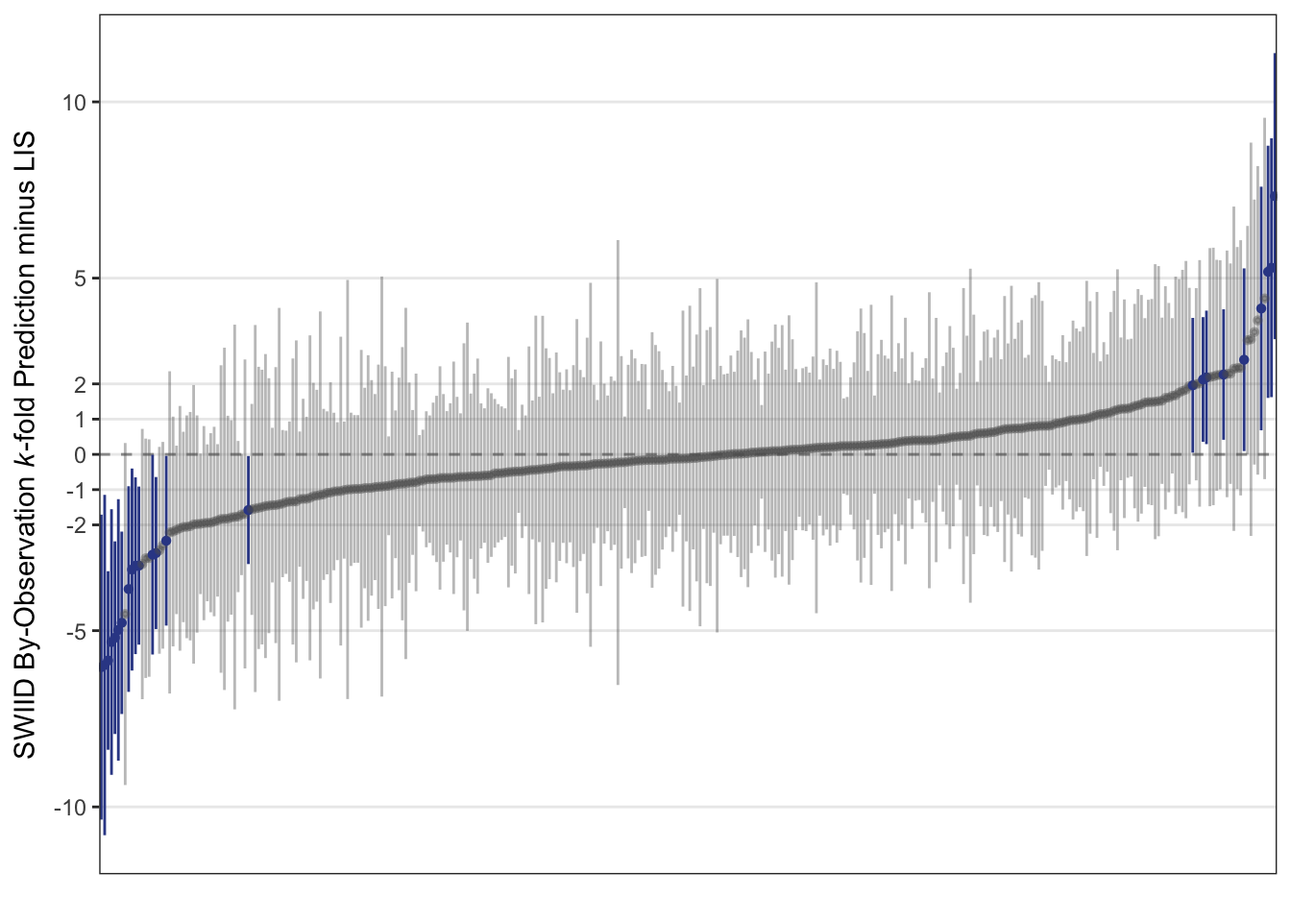
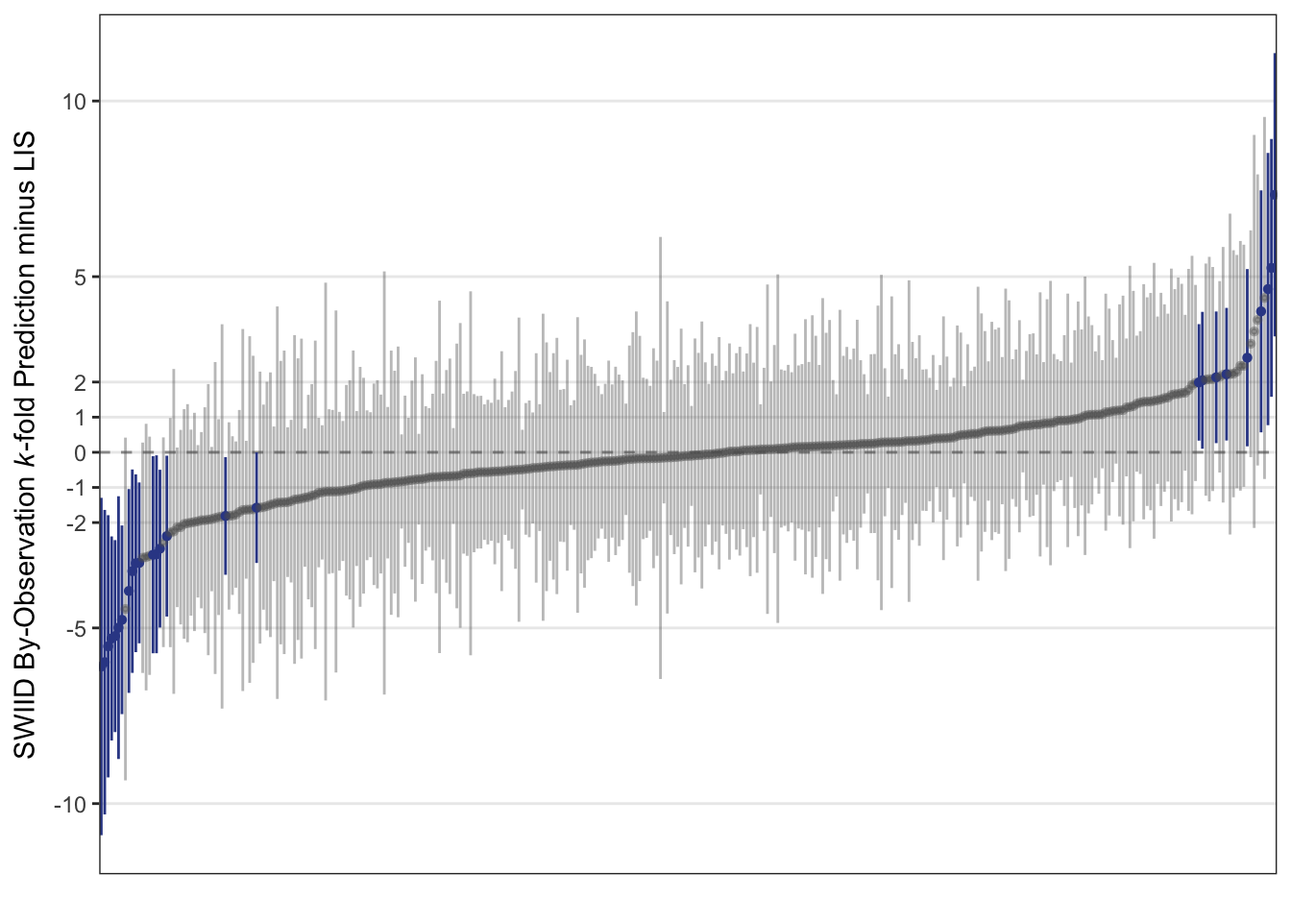
rebuilding site Wed Feb 27 14:13:19 CST 2019

diff --git a/blog/index.html b/blog/index.html
@@ -179,7 +179,7 @@
 <p>Still, that sense may be biased by the exact observations that happened to be assigned to each set. We can reduce this bias by performing the process repeatedly: this is <em>k</em>-fold cross-validation. The available data are divided into some number <em>k</em> groups. One at a time, each of the <em>k</em> groups is treated as the testing data, with all other groups forming the training data for estimating the model. The model’s performance is then evaluated by considering how well it predicts <em>all</em> of the groups, and because every observation is included in the testing data at some point, the process allows us to check whether and for which observations the model is doing particularly poorly.</p>
 <p>To provide a first assessment of the SWIID’s ability to predict the LIS, I randomly assigned the available LIS observations into groups of three, with an added check to ensure that no group included two observations from the same country.<a href="#fn3" class="footnote-ref" id="fnref3"><sup>3</sup></a> (Because the SWIID routine relies only on relationships observed within-country for the countries included in the LIS, the check that only a single observation from a country be assigned to the test data at a time means that the exact size of the group doesn’t really matter.)<a href="#fn4" class="footnote-ref" id="fnref4"><sup>4</sup></a> The figure below plots the difference between the SWIID prediction generated from this <em>k</em>-fold cross-validation and the LIS data for each country-year included in the LIS. Observations for which the 95% credible interval for this difference includes zero are gray; those for which it doesn’t are highlighted in blue.</p>
 <p><img src="/post/2019-01-16-cross-validation-for-swiid_files/figure-html/kfold_output-1.png" width="672" /></p>
-<p>The results show that the SWIID does a very good job of predicting the LIS: the 95% credible interval for the difference between the two includes zero for 93% of these observations. The point estimates for these differences are generally small, with 85% less than 2 Gini points and 62% less than a single Gini point. It’s true that there are a few observations for which the estimated difference is quite large–on the far left of the plot, the SWIID routine underestimated the LIS Gini for Hungary in 1991 by 6 <span class="math inline">\(\pm\)</span> 4 points, and on the extreme right the SWIID routine overestimated that for Guatemala in 2014 by 7 <span class="math inline">\(\pm\)</span> 4 points–but there doesn’t really seem to me to be much pattern in which countries and years are estimated poorly.</p>
+<p>The results show that the SWIID does a very good job of predicting the LIS: the 95% credible interval for the difference between the two includes zero for 92% of these observations. The point estimates for these differences are generally small, with 86% less than 2 Gini points and 62% less than a single Gini point. It’s true that there are a few observations for which the estimated difference is quite large–on the far left of the plot, the SWIID routine underestimated the LIS Gini for Hungary in 1991 by 6 <span class="math inline">\(\pm\)</span> 4 points, and on the extreme right the SWIID routine overestimated that for Guatemala in 2014 by 7 <span class="math inline">\(\pm\)</span> 4 points–but there doesn’t really seem to me to be much pattern in which countries and years are estimated poorly.</p>
 <p>This test, though, really only assesses how well the SWIID predicts LIS-comparable inequality figures in years without LIS data in the (now fifty) countries that are <em>included in the LIS</em>. We can get a better sense of how well the SWIID does predicting countries not covered by the LIS with another cross-validation that, one country at a time, excludes <em>all</em> of the LIS observations for that country. The results of just such a test are plotted below.</p>
 <p><img src="/post/2019-01-16-cross-validation-for-swiid_files/figure-html/kfold_output_by_country-1.png" width="672" /></p>
 <p>Overall, the plot looks very similar to the one above. With each country’s entire run of LIS data taking a turn being excluded, the 95% credible interval for the difference between the resulting SWIID estimate and the excluded LIS data contains zero 91% of the time. And here, too, most of the point estimates for these differences are small: 74% are less than 2 Gini points, and 52% are less than one Gini point.</p>
@@ -286,7 +286,7 @@ stata(&quot;sum a&quot;, data.in = x)                         </code></pre>
 ## 
 ##     Variable |       Obs        Mean    Std. Dev.       Min        Max
 ## -------------+--------------------------------------------------------
-##            a |         3   -.0644068     .582791   -.626612   .5369914</code></pre>
+##            a |         3   -.1817354     .714746   -.946279   .4697327</code></pre>
 <pre class="r"><code>## Data output from Stata (e.g., obtain &#39;auto&#39; dataset)
 auto &lt;- stata(&quot;sysuse auto&quot;, data.out = TRUE)</code></pre>
 <pre><code>## . sysuse auto
@@ -325,24 +325,24 @@ stata(&quot;
 ## 
 ##     Variable |       Obs        Mean    Std. Dev.       Min        Max
 ## -------------+--------------------------------------------------------
-##            y |       100    .0952097    .9861854  -1.629507   3.992455
-##           x1 |       100    .1356805    1.000274   -2.53011   3.091516
-##           x2 |       100    .0258736    .9594336  -1.932261   2.350271
+##            y |       100    .0675399    1.088293  -2.271662   2.677825
+##           x1 |       100   -.2480855     .930022  -2.907439   2.218563
+##           x2 |       100    .1207423    1.003783  -2.990401   2.532959
 ## .     reg y x1 x2
 ## 
 ##       Source |       SS       df       MS              Number of obs =     100
-## -------------+------------------------------           F(  2,    97) =    1.59
-##        Model |  3.06532347     2  1.53266173           Prob &gt; F      =  0.2082
-##     Residual |  93.2182885    97  .961013283           R-squared     =  0.0318
-## -------------+------------------------------           Adj R-squared =  0.0119
-##        Total |  96.2836119    99  .972561737           Root MSE      =  .98031
+## -------------+------------------------------           F(  2,    97) =    0.69
+##        Model |  1.63960931     2  .819804656           Prob &gt; F      =  0.5051
+##     Residual |  115.614122    97  1.19189816           R-squared     =  0.0140
+## -------------+------------------------------           Adj R-squared = -0.0063
+##        Total |  117.253731    99  1.18438112           Root MSE      =  1.0917
 ## 
 ## ------------------------------------------------------------------------------
 ##            y |      Coef.   Std. Err.      t    P&gt;|t|     [95% Conf. Interval]
 ## -------------+----------------------------------------------------------------
-##           x1 |   .0275612   .0985133     0.28   0.780    -.1679605    .2230829
-##           x2 |  -.1806352   .1027067    -1.76   0.082    -.3844796    .0232092
-##        _cons |   .0961439   .0989803     0.97   0.334    -.1003046    .2925924
+##           x1 |  -.1411895   .1205258    -1.17   0.244    -.3803998    .0980208
+##           x2 |   .0204243   .1116692     0.18   0.855    -.2012082    .2420568
+##        _cons |   .0300468   .1147156     0.26   0.794     -.197632    .2577256
 ## ------------------------------------------------------------------------------
 ## .</code></pre>
 </div>
@@ -479,7 +479,7 @@ stata(&quot;
 <p>I have been producing the Standardized World Income Inequality Database for nearly a decade. Since 2008, the SWIID has provided estimates of the Gini index of income inequality<a href="#fn1" class="footnote-ref" id="fnref1"><sup>1</sup></a> for as many countries and years as possible and—given the primary goal of maximizing spatial and temporal coverage—these estimates are as comparable as the available data allow. The dataset has been used widely by academics, journalists, and policymakers. It’s been successful way beyond all my hopes.<a href="#fn2" class="footnote-ref" id="fnref2"><sup>2</sup></a> I’ve been <a href="/swiid/swiid_downloads/">adding to it, revising it, improving on it</a> pretty much the entire time since its launch. Now, <a href="https://www.nsf.gov/awardsearch/showAward?AWD_ID=1533746">with the support of the NSF</a>, I am scrapping all of that work and starting fresh. From scratch.</p>
 <p>This is the first in a series of posts on how I did it. It focuses on an unheralded but foundational part of the SWIID project, the source data. The basic idea behind the SWIID is to start with the data that has been most carefully picked over to ensure its utmost cross-national comparability: the data of the fantastic <a href="http://www.lisdatacenter.org">Luxembourg Income Study</a>. I’ve heard that generating a single country-year of LIS data takes an average of ten person-months of work. <em>That’s</em> dedication to comparability. ❤ But the flipside of maximizing comparability is that the LIS’s coverage is pretty sparse: at last count, it includes just 351 country-years.<a href="#fn3" class="footnote-ref" id="fnref3"><sup>3</sup></a> To address this weakness, the SWIID routine estimates the relationships between Gini indices based on the LIS and all of the other Ginis available for the same country-years, then uses these relationships to estimate what the LIS Gini <em>would be</em> in country-years not included in the LIS but available from other sources.<a href="#fn4" class="footnote-ref" id="fnref4"><sup>4</sup></a> The critical first step to making this work is getting <em>a lot</em> of other, non-LIS Ginis. I call these other Ginis the SWIID’s source data. Over the years, I and my research assistants built up a big spreadsheet of data collected from international organizations, national statistical offices, and scholarly books and articles. But it seemed like whenever I checked over these source data, I would find that at least a few figures had been recently revised, or their source was seemingly no longer available, or (worst of all) they evidently had been entered incorrectly. So again: it’s time to start over from scratch.</p>
 <p>To be included in the SWIID’s source data, observations need to encompass the entire population of a country without regard to age, location,<a href="#fn5" class="footnote-ref" id="fnref5"><sup>5</sup></a> or employment status.<a href="#fn6" class="footnote-ref" id="fnref6"><sup>6</sup></a> They need to have an identifiable welfare definition and equivalence scale (more on these below). Finally, because I want to be able to direct users to sources they can easily peruse themselves, observations need to be available online.<a href="#fn7" class="footnote-ref" id="fnref7"><sup>7</sup></a></p>
-<p>Hand-entering data is tedious and error-prone work, so I <a href="https://github.com/fsolt/swiid/blob/master/R/data_setup.R">automated as much of the process of data collection</a> as practicable. Most international organizations and a few national statistical offices use APIs that facilitate downloading their data, and often the <a href="https://twitter.com/search?q=%23rstats">#rstats</a> community has built R packages using these APIs to make the task even easier. I took as much advantage of these resources as possible.<a href="#fn8" class="footnote-ref" id="fnref8"><sup>8</sup></a> In the absence of an API, I scripted downloads of any available spreadsheets, preferring clean csv files to excel-formatted ones. If there was no spreadsheet, but data were available in pdf files, I automated downloading these files and then used <a href="http://thomasleeper.com">Thomas Leeper</a>’s <a href="https://github.com/ropensci/tabulizer"><code>tabulizer</code> package</a> to read the tables into R. In the absence of a file to download, I scripted the process of scraping the data from the web. Still, for a variety of reasons, a source’s data may have been consigned to being entered in a <a href="https://github.com/fsolt/swiid/blob/master/data-raw/article_data/fs_added_data.csv">separate spreadsheet</a>. Many sources contain just a handful or fewer observations, making the payoff to the often laborious process of data cleaning too small to justify the effort. Some sources–including most academic articles–are behind paywalls, making reproducibility a hassle anyway (though I still often used tabulizer to read the data from the pdf before cutting-and-pasting it into the spreadsheet). Some sources, like books, or the .doc file(!) generated annually by <a href="http://www.msd.govt.nz/about-msd-and-our-work/publications-resources/monitoring/household-incomes/index.html">New Zealand’s Ministry of Social Development</a>, cannot be read straight into R. Finally, at least <a href="https://wdronline.worldbank.org/bitstream/handle/10986/9269/wps4007.pdf?sequence=1">one source</a> contains crucial information encoded in the typeface(!!) of its tables, information lost when the tables are scanned into R. All of the entries in this spreadsheet were checked repeatedly for errors,<a href="#fn9" class="footnote-ref" id="fnref9"><sup>9</sup></a> and I excluded repeated reports of the exact same observation from different sources. In the end, I was able to automate the collection of more than three quarters of the source data and a much higher percentage of the series that will be updated or are subject to revision, facilitating incorporating these changes in future versions.</p>
+<p>Hand-entering data is tedious and error-prone work, so I <a href="https://github.com/fsolt/swiid/blob/master/R/data_setup.R">automated as much of the process of data collection</a> as practicable. Most international organizations and a few national statistical offices use APIs that facilitate downloading their data, and often the <a href="https://twitter.com/search?q=%23rstats">#rstats</a> community has built R packages using these APIs to make the task even easier. I took as much advantage of these resources as possible.<a href="#fn8" class="footnote-ref" id="fnref8"><sup>8</sup></a> In the absence of an API, I scripted downloads of any available spreadsheets, preferring clean csv files to excel-formatted ones. If there was no spreadsheet, but data were available in pdf files, I automated downloading these files and then used <a href="http://thomasleeper.com">Thomas Leeper</a>’s <a href="https://github.com/ropensci/tabulizer"><code>tabulizer</code> package</a> to read the tables into R. In the absence of a file to download, I scripted the process of scraping the data from the web. Still, for a variety of reasons, a source’s data may have been consigned to being entered in a <a href="https://github.com/fsolt/swiid/raw/master/data-raw/fs_added_data.csv">separate spreadsheet</a>. Many sources contain just a handful or fewer observations, making the payoff to the often laborious process of data cleaning too small to justify the effort. Some sources–including most academic articles–are behind paywalls, making reproducibility a hassle anyway (though I still often used tabulizer to read the data from the pdf before cutting-and-pasting it into the spreadsheet). Finally, at least <a href="https://wdronline.worldbank.org/bitstream/handle/10986/9269/wps4007.pdf?sequence=1">one source</a> contains crucial information encoded in the typeface(!!) of its tables, information lost when the tables are scanned into R. All of the entries in this spreadsheet were checked repeatedly for errors,<a href="#fn9" class="footnote-ref" id="fnref9"><sup>9</sup></a> and I excluded repeated reports of the exact same observation from different sources. In the end, I was able to automate the collection of more than three quarters of the source data and a much higher percentage of the series that will be updated or are subject to revision, facilitating incorporating these changes in future versions.</p>
 <p>The resulting dataset comprises 15549(!) Gini coefficients from 2951 country-years in 196 countries or territories, making the coverage of the SWIID source data broader than that of any other income inequality dataset. This isn’t surprising given that, with the exceptions of the <a href="https://www.wider.unu.edu/database/world-income-inequality-database-wiid4">WIID</a> (which, since it provides no original data, isn’t drawn on at all anymore) and the <a href="https://www.gc.cuny.edu/Page-Elements/Academics-Research-Centers-Initiatives/Centers-and-Institutes/Stone-Center-on-Socio-Economic-Inequality/Core-Faculty,-Team,-and-Affiliated-LIS-Scholars/Branko-Milanovic/Datasets">All the Ginis</a> database (which provides little original data, and so isn’t drawn on much), the SWIID source data incorporates all of the data in these other datasets.</p>
 <p><img src="/post/2017-07-28-the-swiid-source-data_files/figure-html/data_by_coverage-1.png" width="672" /></p>
 <p>So, let’s check out what the source data look like. There is much more data available about the income distribution in some countries than in others. Which countries are most data-rich? The plot below shows the top dozen countries by the count of observations. Canada, by virtue of the excellent <a href="http://www.statcan.gc.ca">Statistics Canada</a> as well as longstanding membership in the OECD and LIS, has 736 observations, many more than any other country. The United Kingdom, Germany, and the United States are next, followed by an interesting mix of countries from around the world with not surprisingly a sizable European representation. All are members of the LIS. On the other hand, eleven countries have only a single observation.</p>

diff --git a/blog/2017/07/28/the-swiid-source-data/index.html b/blog/2017/07/28/the-swiid-source-data/index.html
@@ -173,7 +173,7 @@
 <p>I have been producing the Standardized World Income Inequality Database for nearly a decade. Since 2008, the SWIID has provided estimates of the Gini index of income inequality<a href="#fn1" class="footnote-ref" id="fnref1"><sup>1</sup></a> for as many countries and years as possible and—given the primary goal of maximizing spatial and temporal coverage—these estimates are as comparable as the available data allow. The dataset has been used widely by academics, journalists, and policymakers. It’s been successful way beyond all my hopes.<a href="#fn2" class="footnote-ref" id="fnref2"><sup>2</sup></a> I’ve been <a href="/swiid/swiid_downloads/">adding to it, revising it, improving on it</a> pretty much the entire time since its launch. Now, <a href="https://www.nsf.gov/awardsearch/showAward?AWD_ID=1533746">with the support of the NSF</a>, I am scrapping all of that work and starting fresh. From scratch.</p>
 <p>This is the first in a series of posts on how I did it. It focuses on an unheralded but foundational part of the SWIID project, the source data. The basic idea behind the SWIID is to start with the data that has been most carefully picked over to ensure its utmost cross-national comparability: the data of the fantastic <a href="http://www.lisdatacenter.org">Luxembourg Income Study</a>. I’ve heard that generating a single country-year of LIS data takes an average of ten person-months of work. <em>That’s</em> dedication to comparability. ❤ But the flipside of maximizing comparability is that the LIS’s coverage is pretty sparse: at last count, it includes just 351 country-years.<a href="#fn3" class="footnote-ref" id="fnref3"><sup>3</sup></a> To address this weakness, the SWIID routine estimates the relationships between Gini indices based on the LIS and all of the other Ginis available for the same country-years, then uses these relationships to estimate what the LIS Gini <em>would be</em> in country-years not included in the LIS but available from other sources.<a href="#fn4" class="footnote-ref" id="fnref4"><sup>4</sup></a> The critical first step to making this work is getting <em>a lot</em> of other, non-LIS Ginis. I call these other Ginis the SWIID’s source data. Over the years, I and my research assistants built up a big spreadsheet of data collected from international organizations, national statistical offices, and scholarly books and articles. But it seemed like whenever I checked over these source data, I would find that at least a few figures had been recently revised, or their source was seemingly no longer available, or (worst of all) they evidently had been entered incorrectly. So again: it’s time to start over from scratch.</p>
 <p>To be included in the SWIID’s source data, observations need to encompass the entire population of a country without regard to age, location,<a href="#fn5" class="footnote-ref" id="fnref5"><sup>5</sup></a> or employment status.<a href="#fn6" class="footnote-ref" id="fnref6"><sup>6</sup></a> They need to have an identifiable welfare definition and equivalence scale (more on these below). Finally, because I want to be able to direct users to sources they can easily peruse themselves, observations need to be available online.<a href="#fn7" class="footnote-ref" id="fnref7"><sup>7</sup></a></p>
-<p>Hand-entering data is tedious and error-prone work, so I <a href="https://github.com/fsolt/swiid/blob/master/R/data_setup.R">automated as much of the process of data collection</a> as practicable. Most international organizations and a few national statistical offices use APIs that facilitate downloading their data, and often the <a href="https://twitter.com/search?q=%23rstats">#rstats</a> community has built R packages using these APIs to make the task even easier. I took as much advantage of these resources as possible.<a href="#fn8" class="footnote-ref" id="fnref8"><sup>8</sup></a> In the absence of an API, I scripted downloads of any available spreadsheets, preferring clean csv files to excel-formatted ones. If there was no spreadsheet, but data were available in pdf files, I automated downloading these files and then used <a href="http://thomasleeper.com">Thomas Leeper</a>’s <a href="https://github.com/ropensci/tabulizer"><code>tabulizer</code> package</a> to read the tables into R. In the absence of a file to download, I scripted the process of scraping the data from the web. Still, for a variety of reasons, a source’s data may have been consigned to being entered in a <a href="https://github.com/fsolt/swiid/blob/master/data-raw/article_data/fs_added_data.csv">separate spreadsheet</a>. Many sources contain just a handful or fewer observations, making the payoff to the often laborious process of data cleaning too small to justify the effort. Some sources–including most academic articles–are behind paywalls, making reproducibility a hassle anyway (though I still often used tabulizer to read the data from the pdf before cutting-and-pasting it into the spreadsheet). Some sources, like books, or the .doc file(!) generated annually by <a href="http://www.msd.govt.nz/about-msd-and-our-work/publications-resources/monitoring/household-incomes/index.html">New Zealand’s Ministry of Social Development</a>, cannot be read straight into R. Finally, at least <a href="https://wdronline.worldbank.org/bitstream/handle/10986/9269/wps4007.pdf?sequence=1">one source</a> contains crucial information encoded in the typeface(!!) of its tables, information lost when the tables are scanned into R. All of the entries in this spreadsheet were checked repeatedly for errors,<a href="#fn9" class="footnote-ref" id="fnref9"><sup>9</sup></a> and I excluded repeated reports of the exact same observation from different sources. In the end, I was able to automate the collection of more than three quarters of the source data and a much higher percentage of the series that will be updated or are subject to revision, facilitating incorporating these changes in future versions.</p>
+<p>Hand-entering data is tedious and error-prone work, so I <a href="https://github.com/fsolt/swiid/blob/master/R/data_setup.R">automated as much of the process of data collection</a> as practicable. Most international organizations and a few national statistical offices use APIs that facilitate downloading their data, and often the <a href="https://twitter.com/search?q=%23rstats">#rstats</a> community has built R packages using these APIs to make the task even easier. I took as much advantage of these resources as possible.<a href="#fn8" class="footnote-ref" id="fnref8"><sup>8</sup></a> In the absence of an API, I scripted downloads of any available spreadsheets, preferring clean csv files to excel-formatted ones. If there was no spreadsheet, but data were available in pdf files, I automated downloading these files and then used <a href="http://thomasleeper.com">Thomas Leeper</a>’s <a href="https://github.com/ropensci/tabulizer"><code>tabulizer</code> package</a> to read the tables into R. In the absence of a file to download, I scripted the process of scraping the data from the web. Still, for a variety of reasons, a source’s data may have been consigned to being entered in a <a href="https://github.com/fsolt/swiid/raw/master/data-raw/fs_added_data.csv">separate spreadsheet</a>. Many sources contain just a handful or fewer observations, making the payoff to the often laborious process of data cleaning too small to justify the effort. Some sources–including most academic articles–are behind paywalls, making reproducibility a hassle anyway (though I still often used tabulizer to read the data from the pdf before cutting-and-pasting it into the spreadsheet). Finally, at least <a href="https://wdronline.worldbank.org/bitstream/handle/10986/9269/wps4007.pdf?sequence=1">one source</a> contains crucial information encoded in the typeface(!!) of its tables, information lost when the tables are scanned into R. All of the entries in this spreadsheet were checked repeatedly for errors,<a href="#fn9" class="footnote-ref" id="fnref9"><sup>9</sup></a> and I excluded repeated reports of the exact same observation from different sources. In the end, I was able to automate the collection of more than three quarters of the source data and a much higher percentage of the series that will be updated or are subject to revision, facilitating incorporating these changes in future versions.</p>
 <p>The resulting dataset comprises 15549(!) Gini coefficients from 2951 country-years in 196 countries or territories, making the coverage of the SWIID source data broader than that of any other income inequality dataset. This isn’t surprising given that, with the exceptions of the <a href="https://www.wider.unu.edu/database/world-income-inequality-database-wiid4">WIID</a> (which, since it provides no original data, isn’t drawn on at all anymore) and the <a href="https://www.gc.cuny.edu/Page-Elements/Academics-Research-Centers-Initiatives/Centers-and-Institutes/Stone-Center-on-Socio-Economic-Inequality/Core-Faculty,-Team,-and-Affiliated-LIS-Scholars/Branko-Milanovic/Datasets">All the Ginis</a> database (which provides little original data, and so isn’t drawn on much), the SWIID source data incorporates all of the data in these other datasets.</p>
 <p><img src="/post/2017-07-28-the-swiid-source-data_files/figure-html/data_by_coverage-1.png" width="672" /></p>
 <p>So, let’s check out what the source data look like. There is much more data available about the income distribution in some countries than in others. Which countries are most data-rich? The plot below shows the top dozen countries by the count of observations. Canada, by virtue of the excellent <a href="http://www.statcan.gc.ca">Statistics Canada</a> as well as longstanding membership in the OECD and LIS, has 736 observations, many more than any other country. The United Kingdom, Germany, and the United States are next, followed by an interesting mix of countries from around the world with not surprisingly a sizable European representation. All are members of the LIS. On the other hand, eleven countries have only a single observation.</p>

diff --git a/blog/2019/01/16/cross-validation-for-swiid/index.html b/blog/2019/01/16/cross-validation-for-swiid/index.html
@@ -175,7 +175,7 @@
 <p>Still, that sense may be biased by the exact observations that happened to be assigned to each set. We can reduce this bias by performing the process repeatedly: this is <em>k</em>-fold cross-validation. The available data are divided into some number <em>k</em> groups. One at a time, each of the <em>k</em> groups is treated as the testing data, with all other groups forming the training data for estimating the model. The model’s performance is then evaluated by considering how well it predicts <em>all</em> of the groups, and because every observation is included in the testing data at some point, the process allows us to check whether and for which observations the model is doing particularly poorly.</p>
 <p>To provide a first assessment of the SWIID’s ability to predict the LIS, I randomly assigned the available LIS observations into groups of three, with an added check to ensure that no group included two observations from the same country.<a href="#fn3" class="footnote-ref" id="fnref3"><sup>3</sup></a> (Because the SWIID routine relies only on relationships observed within-country for the countries included in the LIS, the check that only a single observation from a country be assigned to the test data at a time means that the exact size of the group doesn’t really matter.)<a href="#fn4" class="footnote-ref" id="fnref4"><sup>4</sup></a> The figure below plots the difference between the SWIID prediction generated from this <em>k</em>-fold cross-validation and the LIS data for each country-year included in the LIS. Observations for which the 95% credible interval for this difference includes zero are gray; those for which it doesn’t are highlighted in blue.</p>
 <p><img src="/post/2019-01-16-cross-validation-for-swiid_files/figure-html/kfold_output-1.png" width="672" /></p>
-<p>The results show that the SWIID does a very good job of predicting the LIS: the 95% credible interval for the difference between the two includes zero for 93% of these observations. The point estimates for these differences are generally small, with 85% less than 2 Gini points and 62% less than a single Gini point. It’s true that there are a few observations for which the estimated difference is quite large–on the far left of the plot, the SWIID routine underestimated the LIS Gini for Hungary in 1991 by 6 <span class="math inline">\(\pm\)</span> 4 points, and on the extreme right the SWIID routine overestimated that for Guatemala in 2014 by 7 <span class="math inline">\(\pm\)</span> 4 points–but there doesn’t really seem to me to be much pattern in which countries and years are estimated poorly.</p>
+<p>The results show that the SWIID does a very good job of predicting the LIS: the 95% credible interval for the difference between the two includes zero for 92% of these observations. The point estimates for these differences are generally small, with 86% less than 2 Gini points and 62% less than a single Gini point. It’s true that there are a few observations for which the estimated difference is quite large–on the far left of the plot, the SWIID routine underestimated the LIS Gini for Hungary in 1991 by 6 <span class="math inline">\(\pm\)</span> 4 points, and on the extreme right the SWIID routine overestimated that for Guatemala in 2014 by 7 <span class="math inline">\(\pm\)</span> 4 points–but there doesn’t really seem to me to be much pattern in which countries and years are estimated poorly.</p>
 <p>This test, though, really only assesses how well the SWIID predicts LIS-comparable inequality figures in years without LIS data in the (now fifty) countries that are <em>included in the LIS</em>. We can get a better sense of how well the SWIID does predicting countries not covered by the LIS with another cross-validation that, one country at a time, excludes <em>all</em> of the LIS observations for that country. The results of just such a test are plotted below.</p>
 <p><img src="/post/2019-01-16-cross-validation-for-swiid_files/figure-html/kfold_output_by_country-1.png" width="672" /></p>
 <p>Overall, the plot looks very similar to the one above. With each country’s entire run of LIS data taking a turn being excluded, the 95% credible interval for the difference between the resulting SWIID estimate and the excluded LIS data contains zero 91% of the time. And here, too, most of the point estimates for these differences are small: 74% are less than 2 Gini points, and 52% are less than one Gini point.</p>

diff --git a/blog/2018/08/15/switch-to-r/index.html b/blog/2018/08/15/switch-to-r/index.html
@@ -241,7 +241,7 @@ stata(&quot;sum a&quot;, data.in = x)                         </code></pre>
 ## 
 ##     Variable |       Obs        Mean    Std. Dev.       Min        Max
 ## -------------+--------------------------------------------------------
-##            a |         3   -.0644068     .582791   -.626612   .5369914</code></pre>
+##            a |         3   -.1817354     .714746   -.946279   .4697327</code></pre>
 <pre class="r"><code>## Data output from Stata (e.g., obtain &#39;auto&#39; dataset)
 auto &lt;- stata(&quot;sysuse auto&quot;, data.out = TRUE)</code></pre>
 <pre><code>## . sysuse auto
@@ -280,24 +280,24 @@ stata(&quot;
 ## 
 ##     Variable |       Obs        Mean    Std. Dev.       Min        Max
 ## -------------+--------------------------------------------------------
-##            y |       100    .0952097    .9861854  -1.629507   3.992455
-##           x1 |       100    .1356805    1.000274   -2.53011   3.091516
-##           x2 |       100    .0258736    .9594336  -1.932261   2.350271
+##            y |       100    .0675399    1.088293  -2.271662   2.677825
+##           x1 |       100   -.2480855     .930022  -2.907439   2.218563
+##           x2 |       100    .1207423    1.003783  -2.990401   2.532959
 ## .     reg y x1 x2
 ## 
 ##       Source |       SS       df       MS              Number of obs =     100
-## -------------+------------------------------           F(  2,    97) =    1.59
-##        Model |  3.06532347     2  1.53266173           Prob &gt; F      =  0.2082
-##     Residual |  93.2182885    97  .961013283           R-squared     =  0.0318
-## -------------+------------------------------           Adj R-squared =  0.0119
-##        Total |  96.2836119    99  .972561737           Root MSE      =  .98031
+## -------------+------------------------------           F(  2,    97) =    0.69
+##        Model |  1.63960931     2  .819804656           Prob &gt; F      =  0.5051
+##     Residual |  115.614122    97  1.19189816           R-squared     =  0.0140
+## -------------+------------------------------           Adj R-squared = -0.0063
+##        Total |  117.253731    99  1.18438112           Root MSE      =  1.0917
 ## 
 ## ------------------------------------------------------------------------------
 ##            y |      Coef.   Std. Err.      t    P&gt;|t|     [95% Conf. Interval]
 ## -------------+----------------------------------------------------------------
-##           x1 |   .0275612   .0985133     0.28   0.780    -.1679605    .2230829
-##           x2 |  -.1806352   .1027067    -1.76   0.082    -.3844796    .0232092
-##        _cons |   .0961439   .0989803     0.97   0.334    -.1003046    .2925924
+##           x1 |  -.1411895   .1205258    -1.17   0.244    -.3803998    .0980208
+##           x2 |   .0204243   .1116692     0.18   0.855    -.2012082    .2420568
+##        _cons |   .0300468   .1147156     0.26   0.794     -.197632    .2577256
 ## ------------------------------------------------------------------------------
 ## .</code></pre>
 </div>
